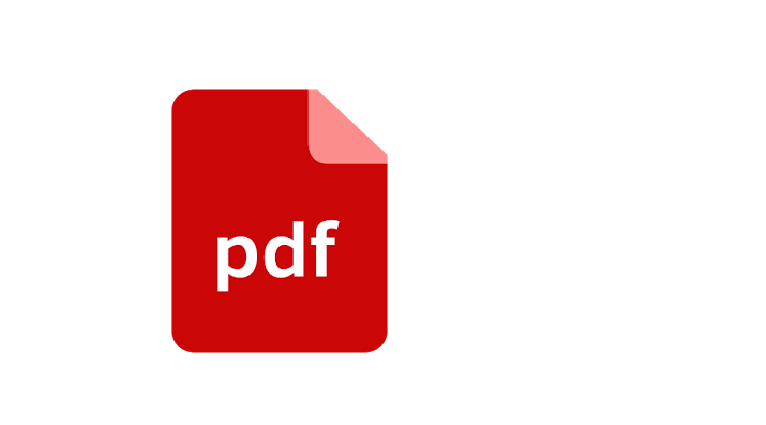
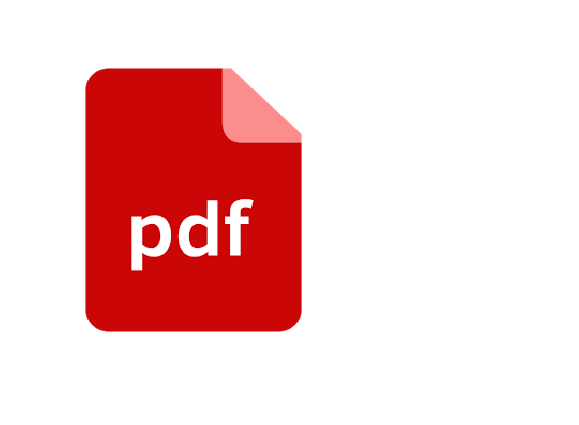
add xing

Changed region(s): [[0.1244, 0.1529, 0.5285, 0.8565]]

diff --git a/index.html b/index.html
@@ -78,8 +78,14 @@
                 <a class="logo" href="https://www.linkedin.com/in/desared/">
                     <img src="image/linkedin.jpg" height="80" width="80" alt="logo">
                 </a>
+				<a  class="logo" href="https://www.xing.com/profile/Desared_Osmanllari">
+                    <img src="image/xing.jpg" height="60" width="60" alt="logo">
+                </a><br/>
                 <a  class="logo" href="https://github.com/desared">
-                    <img src="image/github.jpg" height="60" width="60" alt="logo">
+                    <img src="image/github.jpg" height="70" width="80" alt="logo">
+                </a>
+				<a class="logo" href="pdf/CVOsmanllari.pdf" download>
+                    <img src="image/pdf.jpg" alt="CV" width="90" height="70">
                 </a><br/>
 				<a class="logo" href="https://www.facebook.com/desared.osmanllari">
                     <img src="image/facebook.jpg" height="78" width="78" alt="logo">
@@ -87,10 +93,7 @@
                 <a  class="logo" href="https://www.instagram.com/desared/">
                     <img src="image/instagram.jpg" height="60" width="60" alt="logo">
                 </a>
-				<br/>
-                <a class="logo" href="pdf/CVOsmanllari.pdf" download>
-                    <img src="image/pdf.jpg" alt="CV" width="110" height="70">
-                </a>
+		   
                 <br/>
             </div>
             <div style="padding-left: 220px;" >
